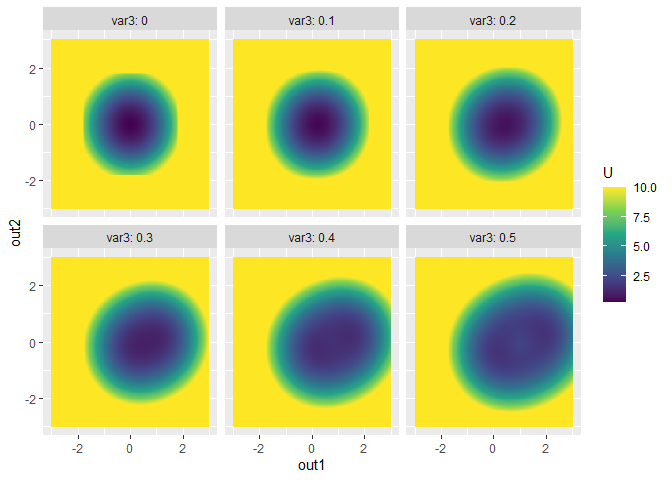
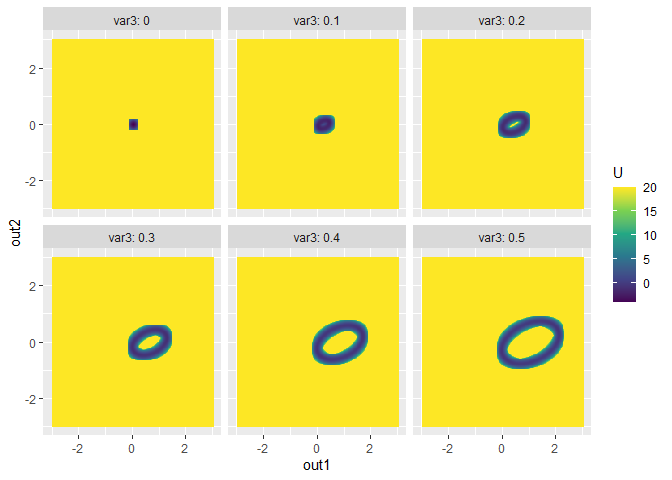
21.3.13.1
Add Inf support for find_max

diff --git a/README.md b/README.md
@@ -27,8 +27,10 @@ library(simlandr)
 
 # Single simulation
 
-single_test <- sim_fun_test(par1 = list(var1 = 1), 
-                                                        par2 = list(var2 = 1, var3 = 0))
+single_test <- sim_fun_test(
+  par1 = list(var1 = 1),
+  par2 = list(var2 = 1, var3 = 0)
+)
 
 # Batch simulation: simulate a set of models with different parameter values
 
@@ -37,7 +39,7 @@ batch_test <- new_var_set()
 
 ## Step 2: add variable and its range to the set
 batch_test <- batch_test %>%
-    add_var("par2", "var3", 0, 0.5, 0.1)
+  add_var("par2", "var3", 0, 0.5, 0.1)
 
 ## Step 3: make variable grids
 batch_test_grid <- make_var_grid(batch_test)
@@ -54,7 +56,7 @@ batch_test_result
 #> Output(s) from 6 simulations.
 batch_test_result <- attach_all_matrices(batch_test_result)
 
-# WARNING if you are using bigmemory: Due to a bug of RStudio(https://github.com/rstudio/rstudio/issues/8923), its variable inspector cannot handle objects with null external pointers. Work around: Turn off "automatically load workspace image"; change the variable inspector to "Manual refresh only", and then load the image and use attach_all_matrices for all batch simulations. After that, you can safely use the variable inspector. #
+# WARNING if you are using bigmemory: Due to a bug of RStudio (https://github.com/rstudio/rstudio/issues/8923), its variable inspector cannot handle objects with null external pointers. Work around: Turn off "automatically load workspace image"; change the variable inspector to "Manual refresh only", and then load the image and use attach_all_matrices for all batch simulations. After that, you can safely use the variable inspector. #
 
 # Batch simulation with two parameters
 
@@ -64,7 +66,8 @@ batch_test2 <- batch_test2 %>%
   add_var("par2", "var2", -0.2, 0.2, 0.2)
 batch_test_grid2 <- make_var_grid(batch_test2)
 
-batch_test_result2 <- batch_simulation(batch_test_grid2, sim_fun_test, bigmemory = FALSE,
+batch_test_result2 <- batch_simulation(batch_test_grid2, sim_fun_test,
+  bigmemory = FALSE,
   default_list = list(
     par1 = list(var1 = 0),
     par2 = list(var2 = 0, var3 = 0)
@@ -85,7 +88,7 @@ plot(l1)
 ``` r
 ## 2. 3d static interactive landscape
 
-l2 <- make_3d_static(single_test, x = "out1", y = "out2", lims = c(-3,3,-3,3), h = 0.01, kde_fun = "ks")
+l2 <- make_3d_static(single_test, x = "out1", y = "out2", lims = c(-3, 3, -3, 3), h = 0.01, kde_fun = "ks")
 #> Calculating the smooth distribution...
 #> Done!
 #> Making the plot...
@@ -112,7 +115,7 @@ plot(l2, 2) # the heatmap version
 
 ``` r
 ## 3. 3d landscape animation with a changing parameter
-l3 <- make_3d_animation_multisim(batch_test_result, x = "out1", y = "out2", fr = "var3", zmax = 10, lims = c(-3,3,-3,3), h = 0.2)
+l3 <- make_3d_animation(batch_test_result, x = "out1", y = "out2", fr = "var3", zmax = 20, lims = c(-3, 3, -3, 3), h = 0.002, individual_landscape = TRUE)
 #> Wrangling data...
 #> Done!
 #> Making the plot...
@@ -141,7 +144,7 @@ plot(l3, 3)
 
 ``` r
 ## 4. 2d density matrix with two changing parameters
-l4 <- make_2d_matrix(batch_test_result2, x = "out1", rows = "var1", cols = "var2", from = -3, to = 3)
+l4 <- make_2d_matrix(batch_test_result2, x = "out1", rows = "var1", cols = "var2", from = -1, to = 1, adjust = 0.1, individual_landscape = TRUE)
 #> Making the plot...
 #> Done!
 plot(l4)
@@ -150,7 +153,7 @@ plot(l4)
 <img src="man/figures/README-example-6.png" width="100%" />
 
 ``` r
-l4_1 <- make_2d_matrix(batch_test_result, x = "out1", cols = "var3", from = -3, to = 3)
+l4_1 <- make_2d_matrix(batch_test_result, x = "out1", cols = "var3", from = -3, to = 3, adjust = 0.1)
 #> Making the plot...
 #> Done!
 plot(l4_1)
@@ -160,7 +163,7 @@ plot(l4_1)
 
 ``` r
 ## 5. 3d (including color dimension) heatplot matrix with two changing parameters
-l5 <- make_3d_matrix(batch_test_result2, x = "out1", y = "out2", rows = "var1", cols = "var2", lims = c(-3,3,-3,3), h = 0.01, kde_fun = "ks", zmax = 10)
+l5 <- make_3d_matrix(batch_test_result2, x = "out1", y = "out2", rows = "var1", cols = "var2", lims = c(-3, 3, -3, 3), h = 0.001, kde_fun = "ks", zmax = 10, individual_landscape = TRUE)
 #> Making the 2d plot...
 #> Done!
 plot(l5)
@@ -169,12 +172,116 @@ plot(l5)
 <img src="man/figures/README-example-8.png" width="100%" />
 
 ``` r
-l5_1 <- make_3d_matrix(batch_test_result, x = "out1", y = "out2", cols = "var3", lims = c(-3,3,-3,3), h = 0.01, kde_fun = "ks", zmax = 10)
+l5_1 <- make_3d_matrix(batch_test_result, x = "out1", y = "out2", cols = "var3", lims = c(-3, 3, -3, 3), h = 0.001, kde_fun = "ks", zmax = 10)
 #> Making the 2d plot...
 #> Done!
 plot(l5_1)
 ```
 
 <img src="man/figures/README-example-9.png" width="100%" />
+
+``` r
+
+# Calculate energy barriers
+b1 <- calculate_barrier_2d(l1, start_location_value = -2, end_location_value = 2, start_r = 0.3, end_r = 0.3)
+plot(l1) + get_geom(b1)
+```
+
+<img src="man/figures/README-example-10.png" width="100%" />
+
+``` r
+b2 <- calculate_barrier_3d(l2, start_location_value = c(-2.5, -2), end_location_value = c(2.5, 0), start_r = 0.3, end_r = 0.3)
+plot(l2, 2) + get_geom(b2)
+```
+
+<img src="man/figures/README-example-11.png" width="100%" />
+
+``` r
+# b3 <- calculate_barrier(l3, start_location_value = c(0,0), end_location_value = c(2, 1), start_r = 0.3, end_r = 0.6)
+# b3 <- calculate_barrier(l3, make_barrier_grid_2d(batch_test_grid, start_location_value = c(0,0), end_location_value = c(2, 1), start_r = 0.3, end_r = 0.6))
+# make_barrier_grid_3d(batch_test_grid, start_location_value = c(0,0), end_location_value = c(2, 1), start_r = 0.3, end_r = 0.6, print_template = TRUE)
+b3 <- calculate_barrier_3d_batch(
+  l3,
+  make_barrier_grid_3d(batch_test_grid,
+    df =
+      structure(list(start_location_value = list(
+        c(0, 0), c(0, 0),
+        c(0, 0), c(0, 0), c(0, 0), c(0, 0)
+      ), start_r = list(c(
+      0.1,
+      0.1
+    ), c(0.2, 0.2), c(0.2, 0.2), c(0.3, 0.3), c(0.3, 0.3), c(
+      0.3,
+      0.3
+    )), end_location_value = list(c(0, 0), c(
+        1,
+        0.5
+      ), c(1, 0.5), c(1.8, 0.8), c(2, 1), c(2, 1)), end_r = c(
+        0.6, 0.6,
+        0.6, 0.6, 0.6, 0.6
+      )), row.names = c(NA, -6L), class = c(
+        "var_grid",
+        "data.frame"
+      ))
+  )
+)
+
+plot(l3, 3) + get_geom(b3)
+#> geom_path: Each group consists of only one observation. Do you need to adjust
+#> the group aesthetic?
+```
+
+<img src="man/figures/README-example-12.png" width="100%" />
+
+``` r
+b4 <- calculate_barrier_2d_batch(l4, start_location_value = -0.25, end_location_value = 0.25, start_r = 0.2, end_r = 0.2)
+
+plot(l4) + get_geom(b4)
+```
+
+<img src="man/figures/README-example-13.png" width="100%" />
+
+``` r
+b5 <- calculate_barrier_3d_batch(l5, start_location_value = c(-1,-1), end_location_value = c(1, 1), start_r = 0.3, end_r = 0.3)
+#> The U in this range is too high. Searching range expanded...
+#> r = c(0.691959798994974,0.691959798994974)
+#> The U in this range is too high. Searching range expanded...
+#> r = c(0.752261306532662,0.752261306532662)
+#> The U in this range is too high. Searching range expanded...
+#> r = c(0.691959798994974,0.691959798994974)
+#> The U in this range is too high. Searching range expanded...
+#> r = c(0.691959798994974,0.691959798994974)
+#> The U in this range is too high. Searching range expanded...
+#> r = c(0.601507537688441,0.601507537688441)
+#> The U in this range is too high. Searching range expanded...
+#> r = c(0.571356783919597,0.571356783919597)
+#> The U in this range is too high. Searching range expanded...
+#> r = c(0.752261306532662,0.752261306532662)
+#> The U in this range is too high. Searching range expanded...
+#> r = c(0.752261306532662,0.752261306532662)
+#> The U in this range is too high. Searching range expanded...
+#> r = c(0.903015075376882,0.903015075376882)
+#> The U in this range is too high. Searching range expanded...
+#> r = c(0.903015075376882,0.903015075376882)
+#> The U in this range is too high. Searching range expanded...
+#> r = c(0.752261306532662,0.752261306532662)
+#> The U in this range is too high. Searching range expanded...
+#> r = c(0.752261306532662,0.752261306532662)
+#> The U in this range is too high. Searching range expanded...
+#> r = c(0.691959798994974,0.691959798994974)
+#> The U in this range is too high. Searching range expanded...
+#> r = c(0.631658291457285,0.631658291457285)
+#> The U in this range is too high. Searching range expanded...
+#> r = c(0.691959798994974,0.691959798994974)
+#> The U in this range is too high. Searching range expanded...
+#> r = c(0.691959798994974,0.691959798994974)
+#> The U in this range is too high. Searching range expanded...
+#> r = c(0.631658291457285,0.631658291457285)
+#> The U in this range is too high. Searching range expanded...
+#> r = c(0.691959798994974,0.691959798994974)
+plot(l5) + get_geom(b5)
+```
+
+<img src="man/figures/README-example-14.png" width="100%" />
 
 <!-- devtools::build_readme() -->
